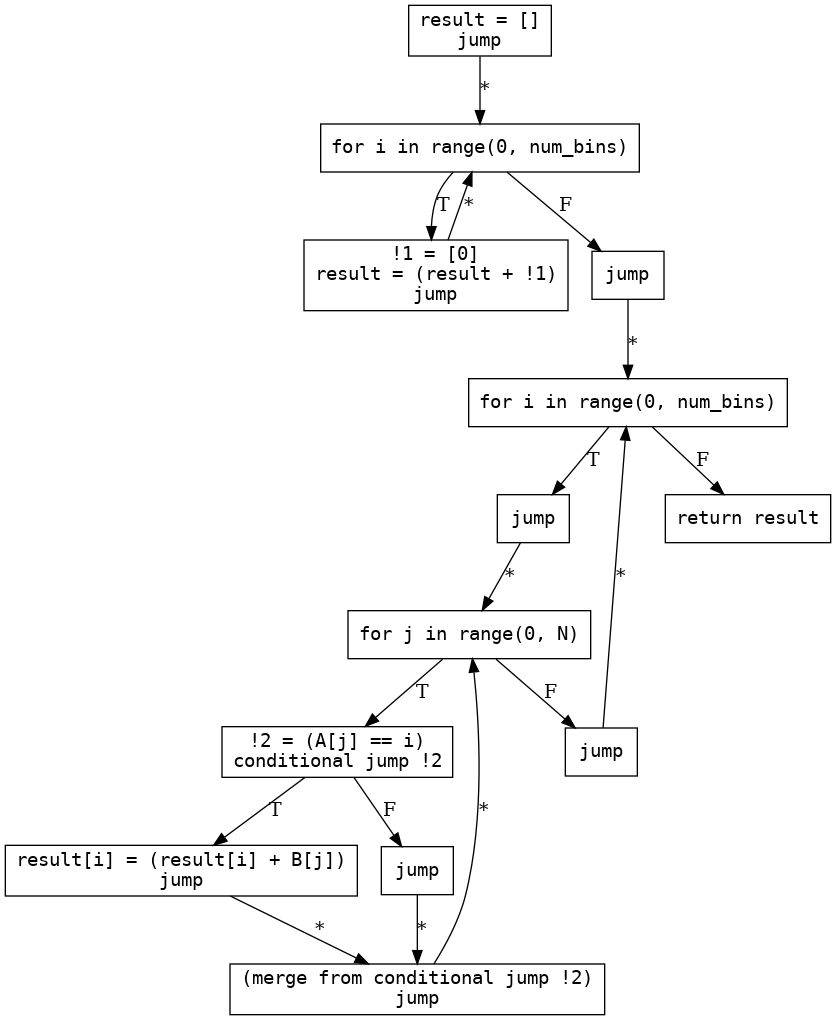
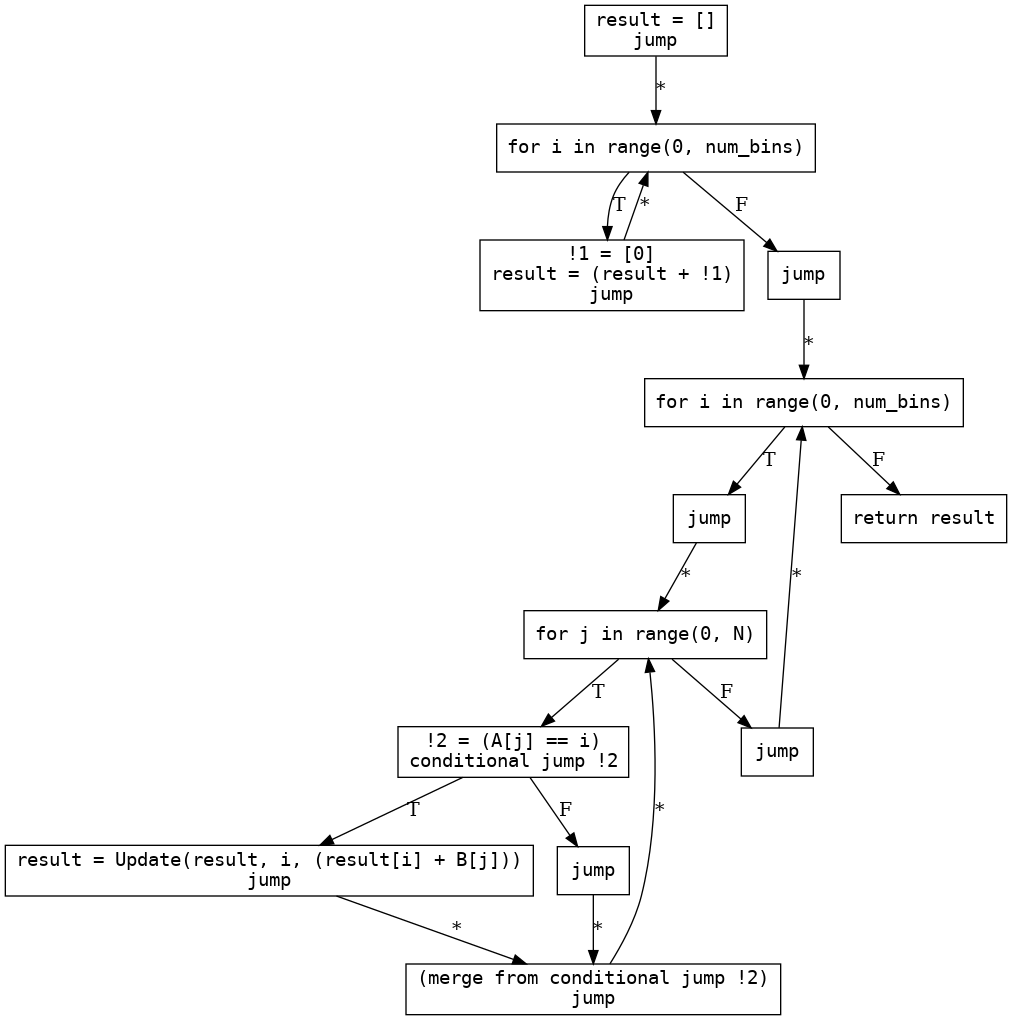
Deploying to gh-pages from  @ d7c9958c6050773e8b39496d8cc1059a9f437f9e 🚀

diff --git a/README.md b/README.md
@@ -186,11 +186,11 @@ def foo(D, N, C, C_sqr_sum, two_C, S, S_sqr_sum):
     !1!1 = [0]
     differences!1 = (!1!1 * D!0)
     for i in range(0, N!0):
+        differences!2 = Φ(differences!1, differences!3)
         a_sqr_plus_b_sqr!1 = Φ(a_sqr_plus_b_sqr!0, a_sqr_plus_b_sqr!2)
         two_a_b!1 = Φ(two_a_b!0, two_a_b!3)
         tmp!1 = Φ(tmp!0, tmp!2)
         this_diff!1 = Φ(this_diff!0, this_diff!2)
-        differences[i] = Φ(differences[i], differences[i])
         min_diff!1 = Φ(min_diff!0, min_diff!3)
         min_index!1 = Φ(min_index!0, min_index!3)
         !2!1 = Φ(!2!0, !2!2)
@@ -202,7 +202,7 @@ def foo(D, N, C, C_sqr_sum, two_C, S, S_sqr_sum):
             tmp!3 = (S[((i * D!0) + j)] * two_C[j])
             two_a_b!4 = (two_a_b!3 + tmp!3)
         this_diff!2 = (a_sqr_plus_b_sqr!2 - two_a_b!3)
-        differences[i] = this_diff!2
+        differences!3 = Update(differences!2, i, this_diff!2)
         min_diff!2 = differences[0]
         min_index!2 = 0
         for k in range(0, N!0):
@@ -330,15 +330,15 @@ def foo(A, B, N, num_bins):
         !1!2 = [0]
         result!3 = (result!2 + !1!2)
     for i in range(0, num_bins!0):
+        result!4 = Φ(result!2, result!5)
         !2!1 = Φ(!2!0, !2!2)
-        result[i] = Φ(result[i], result[i])
         for j in range(0, N!0):
+            result!5 = Φ(result!4, result!7)
             !2!2 = Φ(!2!1, !2!3)
-            result[i] = Φ(result[i], result[i])
             !2!3 = (A[j] == i)
-            result[i] = (result[i] + B[j])
-            result[i] = MUX(!2!3, result[i], result[i])
-    return result!2
+            result!6 = Update(result!5, i, (result[i] + B[j]))
+            result!7 = MUX(!2!3, result!6, result!5)
+    return result!4
 ```
 ### Dependency graph
 ![](histogram_dep_graph.png)
